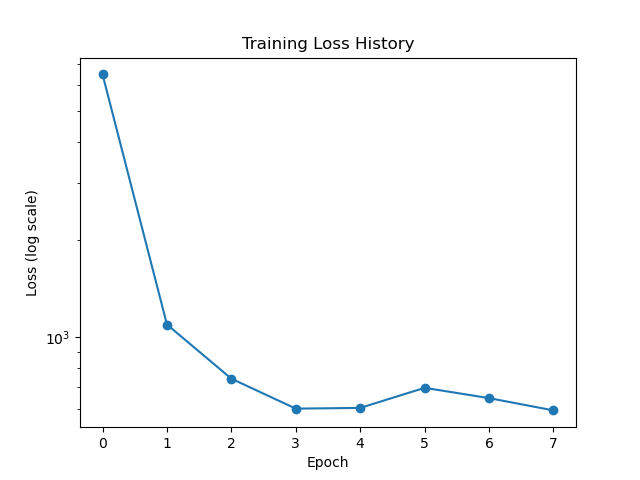
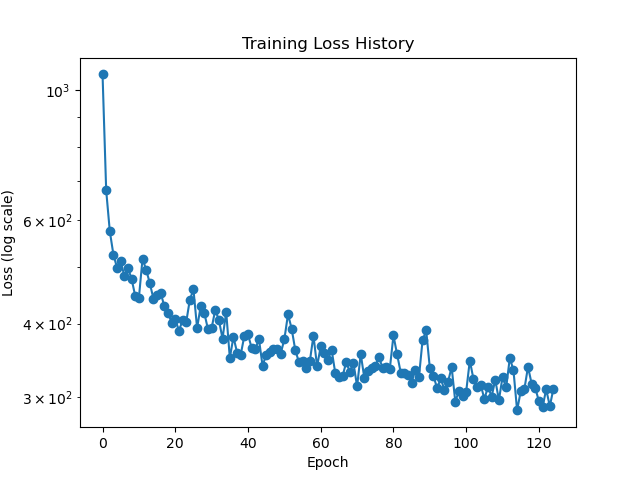
2503091423

diff --git a/250309/nivolumab.py b/250309/nivolumab.py
@@ -17,8 +17,8 @@ import torch.distributed as dist
 BASE_DIR = os.path.dirname(os.path.abspath(__file__))
 DATA_PATH = os.path.join(BASE_DIR, "..", "processed_data.parquet")
 CHECKPOINT_PATH = os.path.join(BASE_DIR, "checkpoint.pth")
-BATCH_SIZE = 1024
-NUM_WORKERS = 16
+BATCH_SIZE = 128
+NUM_WORKERS = 8
 PIN_MEMORY = True
 LEARNING_RATE = 1e-3
 STATIC_INPUT_DIM = 7
